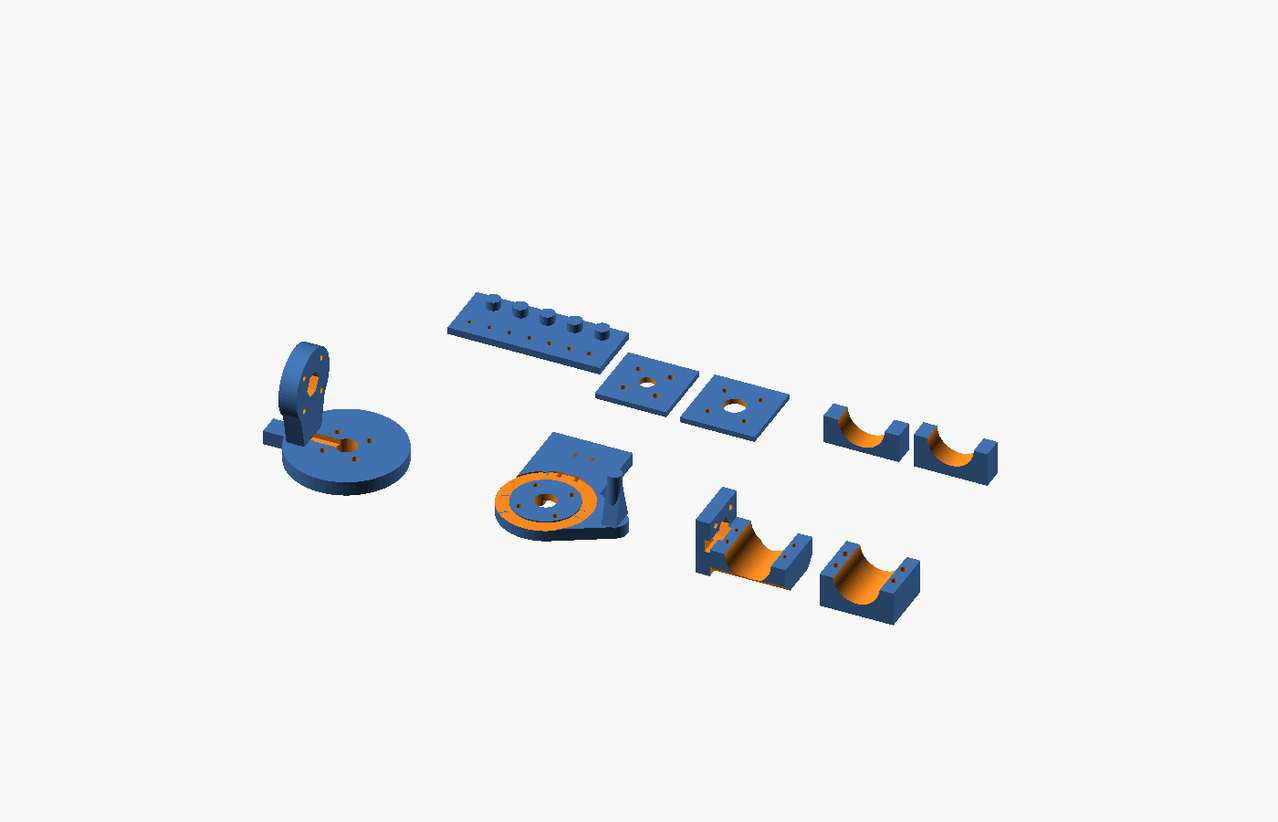
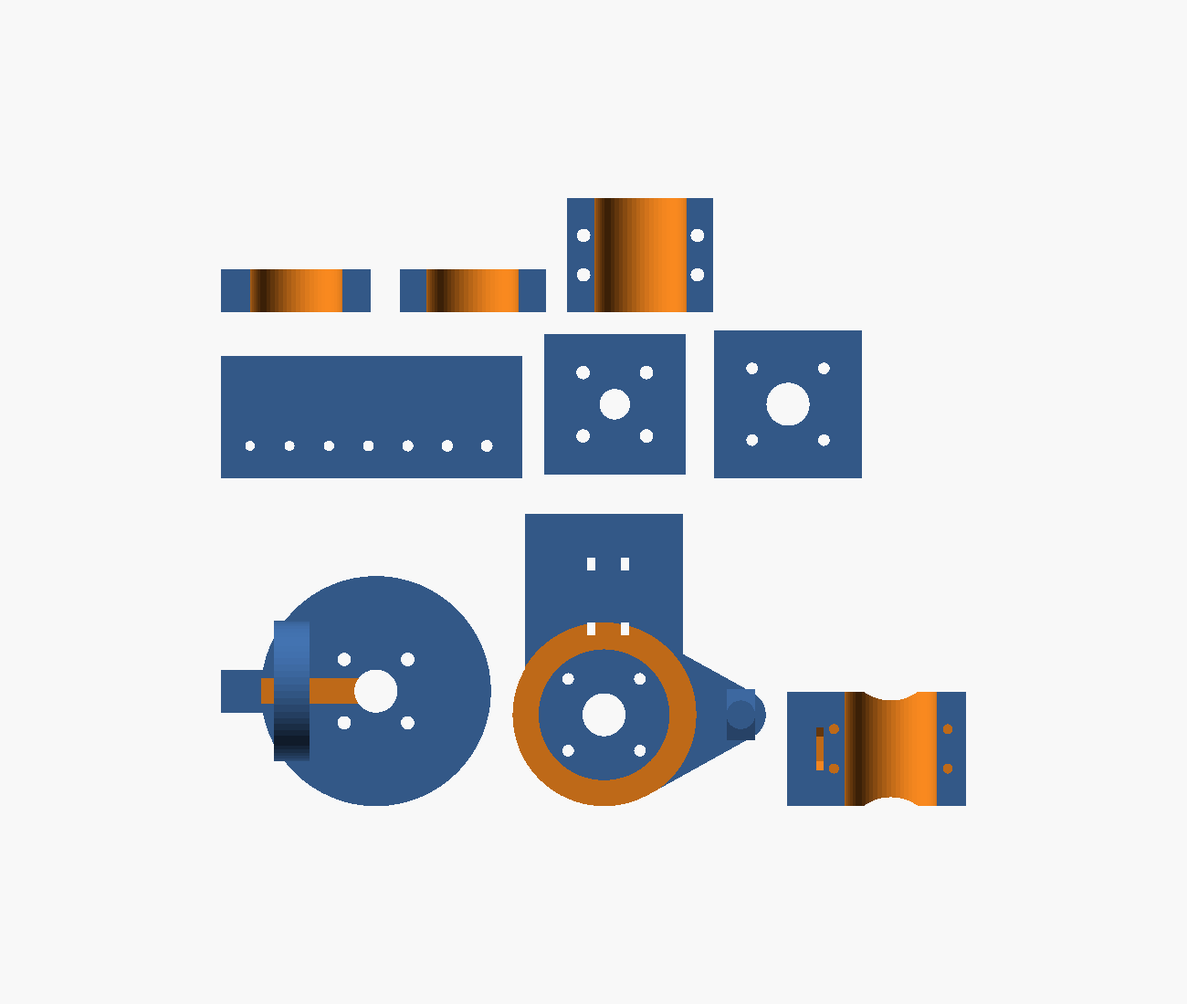
Docs: bring the frame chapter and the BoM up to v8
03b-print-the-frame.md is rewritten. It described six parts, an output boss,
M4 rear bolts on D43 and a D30 output circle - none of which exist. It now
describes four parts against the motor as measured out of the vendor STEP,
and says which numbers are unverified rather than implying all of them are
known. The bearing-load rating is called out as unpublished, because the
whole case for the cantilever rests on it not mattering at 0.0146 N.m.

Also documents the two things that bite people rather than burying them: the
2.5 mm tapped depth that fixes every M3 at x 10, and the stale-copies failure
where OpenSCAD collapses unknown names to undef, drops the geometry they
positioned, writes a valid STL and exits 0.

BoM row 11 in 03-build-the-gimbal.md no longer says "683 or 608 bearings".
The brief expected this row to be split so the 608 got its own line; that is
not what happened, because v8 has no bearing at all. The row now reads four
printed parts and no bearings, and says why, so anyone who already bought one
knows. bom-checklist.md keeps the 608 line struck through for the same reason.

The all-parts plate was 352 x 186 mm, which does not fit a 256 mm bed. Repacked
from each part's measured bounding box to 207.5 x 169.7 mm - the whole set,
including all three coupons, now prints in ONE job instead of two.

Verified: python -m mkdocs build --strict is clean, and tests/e2e is 9 passed.

Changed region(s): [[0.1846, 0.1867, 0.8308, 0.8089]]

diff --git a/docs/03b-print-the-frame.md b/docs/03b-print-the-frame.md
@@ -1,151 +1,174 @@
 ---
 title: 3b · Print the Frame
-description: "The gimbal's printed frame: six parts that print flat with no supports, every joint a bolt you can see, every fit derived from three numbers you measure off your own printer, and three cheap test pieces that find out before anything expensive prints."
+description: "The gimbal's printed frame: four parts that print flat with no supports, no bearings at all, every fit derived from three numbers you measure off your own printer, and a boolean test suite that proves each hole actually exists before you print anything."
 ---
 
-# Doc 3b · Print the Frame — Six Parts, Three Test Pieces, No Guesswork
+# Doc 3b · Print the Frame — Four Parts, Three Test Pieces, No Guesswork
 
 **Engineered Lighting prototype series · July 2026**
-The frame chapter [Doc 3](03-build-the-gimbal.md) stage 7 points at. Context, fixed: the motors are **RMD-L-5005** (Ø49 × ~24 mm, 92 g, mounting holes on *both* faces), the spotlight payload is the **DLH-3UP-EH aluminum LED housing** (Ø0.99" finned barrel, 1.26" overall, flush front face — nothing protrudes — and a hollow 1/2"-14 NPT rear stub the wires come out of), the printer is a **Bambu Lab X1C**, and the material is **PETG Basic** (PETG-CF for the yoke if it's on hand). Iteration is the plan, not a failure mode.
 
-!!! agent-prompt "🤖 Give this to your agent"
+The frame chapter [Doc 3](03-build-the-gimbal.md) stage 7 points at. Context, fixed: the motors are **RMD-L-5005** (Ø49 × 23.9 mm, 92 g), the spotlight payload is the **DLH-3UP-EH aluminium LED housing** (Ø0.99″ barrel, 1.26″ overall, flush front, hollow ½″-14 NPT rear stub the wires come out of), the printer is a **Bambu Lab X1C**, and the material is **PETG Basic**.
 
-    ```text
-    You're my bench agent for the Engineered Lighting gimbal frame
-    (chapter: engineering.engineered.lighting/03b-print-the-frame/). The
-    RMD-L-5005 motors and my calipers are on the bench, a Bambu Lab X1C is
-    on the network, and cad/frame_params.scad, cad/frame.scad and
-    cad/assembly.scad from this chapter are in my repo. Start by proposing
-    a plan and wait for my approval before executing anything. The first
-    part to print is tol_coupon, which measures my printer, not the design
-    — I will report which test hole my M3 drops through, which post the
-    608 turns freely on, and which ring it presses into, and you set
-    hole_comp, hole_comp_h and shaft_comp in frame_params.scad from that.
-    Then fit_coupon and bore_gauge against the real motor and the real
-    housing. Here are my caliper measurements: [paste the MEASURE-ME list
-    with your numbers]. Every edit goes in frame_params.scad — frame.scad
-    is geometry only. Re-render with the openscad CLI after each round.
-    Done when: all three tolerance constants came off a part I printed,
-    every MEASURE-ME value is replaced by a measured one, and the coupon
-    seats flush on both faces of the real motor. Report back: the
-    parameter diff after each round and the exact commands you ran.
-    ```
+This is **frame v8**, and it is a ground-up rebuild. Two things drove it.
 
-    *[How to run this prompt →](00b-ai-native-workflow.md)*
+## What changed, and why it matters
 
-*Printing stalled — bad first layers, fit that won't converge, no printer time? A hand-drilled aluminum bar or plywood yoke made from a 1:1 printed drawing is a legitimate v0; the geometry is a few brackets, not art.*
+**The motor is now read, not guessed.** Earlier revisions were built on an invented output flange — six holes on a Ø30 circle, an M4 rear mount on Ø43, a 4 mm output boss. None of those exist. The vendor's own STEP file is now in the repo at [`ref/RMD-L-5005-S.STEP`](https://github.com/hooterjackson/engineered-lighting-site/blob/main/ref/RMD-L-5005-S.STEP), parsed by [`ref/step_dump.py`](https://github.com/hooterjackson/engineered-lighting-site/blob/main/ref/step_dump.py), and written up in [`ref/RMD-L-5005-S.md`](https://github.com/hooterjackson/engineered-lighting-site/blob/main/ref/RMD-L-5005-S.md). What it says:
 
-## The six parts
-
-| Part | What it is |
+| | |
 |---|---|
-| `base_plate` | The only part that touches the world. The pan motor's **rear cover** bolts up into it, heads counterbored flush so the plate still sits flat under a shelf; a tongue reaches aft for the C-clamp; a buttressed post hangs 29 mm down into the yoke's swing plane as the pan hard stop. |
-| `yoke` | Bridge and both arms, **one piece**. Prints standing on its bridge with the arms pointing up — zero supports, and there is no joint to align because there is no joint. |
-| `cradle` | The head's saddle. Bolts to the tilt motor's output boss, carries the trunnion, holds the lower half of the housing bore. |
-| `cradle_cap` | The other half of the clamp. Four screws pinch the housing between the two halves. |
-| `trunnion` | The printed axle stub. There is no steel axle in this design. |
-| `bearing_carrier` | Holds the 608 on the idle side and, on purpose, has oversize screw holes so it can *find* the axis instead of fighting it. |
+| Output face | **Flat.** A Ø47 annulus, then a 1 mm 45° chamfer out to Ø49. **There is no boss** — stand-proud is 0.000 mm |
+| Output bolts | 4 × M3 on **Ø25**, tapped only **2.500 mm deep**, breaking through into the rotor cavity |
+| Stationary housing | begins **3.000 mm** back from the output face |
+| Rear mount | 4 × M2.5 on a **20 × 20 mm square** (Ø28.284 at 45°), 10.7 mm deep |
+| Through bore | **Ø8.1** ("S" variant) |
+| Anything protruding past Ø49 | **Nothing.** Max radius anywhere is exactly R24.5. The connectors are recesses cut *into* the casting |
+
+That 2.5 mm thread depth is the single most constraining number in the design. Every M3 into an output flange is **M3 × 10**, derived from it. The previous revision's assembly drawing called for M3 × 13 and M3 × 14 — both bottom out 2.5–3.5 mm before the head seats, so the joint never clamps and the screw tip ends up inside the motor.
+
+**The idle side of the tilt axis is gone.** No trunnion, no bearing carrier, no 608, six fewer screws, one fewer yoke arm. The head cantilevers off the tilt motor's own output.
+
+That deletes 62 g from a 177 g machine to carry **0.505 N and 0.0146 N·m** — about 3.5% of the motor's peak torque, with 0.58 N of prying on the output bolts against an M3 proof load near 2000 N. It also removes an *over-constrained* twin-bearing axis: two bearings on one axis need the printed parts to be coaxial with the motor's own bearing, which printed parts cannot guarantee, and which the old design papered over with a build-time "leave three screws loose, swing the head, then tighten" ritual. A misaligned second bearing loads the motor's bearing sideways — it can make worse the thing it is supposed to protect.
+
+!!! warning "One number here is unverified, and it is the important one"
+
+    **The RMD-L manual publishes no bearing load ratings at all.** There is no radial or moment figure for the output. The case for the cantilever is an argument from load magnitude and from the journal diameter — the STEP shows the rotor running in a Ø46.6 bore, and moment capacity scales with that — **not** from a datasheet. The load numbers are echoed on every render so that if the head ever grows, the change is visible instead of silent. If a rating ever surfaces, check it against 0.505 N and 0.0146 N·m.
+
+## The four parts
+
+| Part | What it is | Mass |
+|---|---|---|
+| `base_plate` | The only part that touches the world. The pan motor's rear bolts up into it, heads counterbored flush; a tongue reaches aft for the C-clamp; a buttressed post hangs down as the pan hard stop | 33.4 g |
+| `yoke` | Bridge disc and **one** arm, one piece. Prints standing on its bridge with the arm pointing up — zero supports, and no joint to align because there is no joint | 47.0 g |
+| `cradle` | The head's saddle. Bolts flat to the tilt motor's output face and holds the lower half of the housing bore | 23.2 g |
+| `cradle_cap` | The other half of the clamp. Four screws pinch the housing between the halves | 21.0 g |
+| | **printed machine** | **124.6 g** |
+
+Masses are measured off the exported STLs at PETG density by [`tools/meshcheck.py`](https://github.com/hooterjackson/engineered-lighting-site/blob/main/tools/meshcheck.py), which computes volume and centre of mass twice — once from a hand-rolled divergence-theorem sum, once from `trimesh` — and refuses to report a centre of mass without a stated coordinate frame. v7 was 177.1 g across six parts.
 
 Plus three test pieces that exist to be wrong cheaply, in the order you print them:
 
-**`tol_coupon`** measures *your printer*. FDM gets holes and shafts wrong in opposite directions — a hole comes out undersize, a post comes out oversize — and every fit in this project is derived from three constants that describe by how much. The coupon prints four candidate values for each: find which hole your M3 drops through, which post your 608 slides onto and turns freely on, and which ring it presses into. Type those three numbers into `frame_params.scad` and every part in the set resizes itself. It is 45 g and you print it once, ever.
+**`tol_coupon`** (14.9 g) measures *your printer*. FDM gets holes and shafts wrong in opposite directions — a hole comes out undersize, a post oversize — and every fit here derives from three constants that say by how much. Find which test hole your M3 drops through, which drilled-sideways hole it drops through, and which post measures nominal. Type three numbers into `frame_params.scad` and the whole set resizes itself.
 
-**`fit_coupon`** then checks the *motor*: a 3 mm disc carrying both bolt circles, the centre bore, and scribe rings at the boss and body diameters. **`bore_gauge`** checks the *housing*: a 14 mm slice of the real clamp — put the real barrel in it and find out whether Ø25.75 actually slides.
+**`fit_coupon`** (11.4 g) checks the *motor*: **two separate tiles**, one per bolt circle. They are separate on purpose — drawn concentrically, the Ø25 and Ø28.284 circles overlap into merged slots, and an M3 and an M2.5 both drop through the same hole, so the coupon proves neither circle.
+
+**`bore_gauge`** (14.2 g) checks the *housing*: a 12 mm slice of the real clamp, both halves lying flat on the bed, the cap half crown-down so its bore prints as a valley exactly as the real cap does.
 
 ## The rules the design follows
 
-**Every joint is a bolt you can see.** No tabs, no slots, no square nuts buried in pockets, nothing friction-fit. Printed-to-motor joints bolt into the motor's own threaded holes; printed-to-printed joints are machine screws self-tapping into printed pilot holes, with heat-set M3 inserts as the upgrade if anything ever works loose.
+**Every joint is a bolt you can see.** No tabs, no captive nuts, nothing friction-fit. Printed-to-motor joints use the motor's own threads; printed-to-printed self-taps into printed pilot holes.
 
-**The motors are bolted by their rear covers.** Both RMD faces carry mounting holes, and the rear one is a flat plate, so the mating surface is unambiguous. The tilt motor's body therefore lives *inside* the yoke with its connector hanging in free air, and both motors are bolted through a plate from the outside, where a driver can reach.
+**Every fit is derived, never typed.** Three measured constants and the fit functions built on them. Horizontal (bridged) holes get their own class, because a sideways hole prints with a sagging roof and comes out worse than a vertical one.
 
-**Nothing is sized in absolute millimetres if a fit depends on it.** `m3_clear`, the 608's bore, the trunnion's stub, the recess that lands on the motor boss — all of them come out of fit functions driven by the three numbers `tol_coupon` measures. This is not decoration: the previous revision drew the trunnion stub at 7.85 mm to enter an 8.00 mm bearing, and because external cylinders print *over* size it would have come out at about 8.0 and never gone in.
+**The part lands flat on a flat face.** There is no boss to register on, so the four M3 locate it. A plate laid on the output face sits on the Ø47 annulus and has **3.0 mm of axial room at full Ø49** before it touches the stator — which is what would clamp the motor solid.
 
-**Where a printed part lands on a rotating boss, it lands on the boss and nothing else.** The locating recess is 1 mm deep against a boss that stands about 4 mm proud. That margin is deliberate: a part that bottomed out on the *stator* face would clamp the motor solid.
+**Nothing bridges.** The hard stop is a post and a lug that *collide*, not a post in an arc groove: the old groove was 1565 mm² of flat roof with 45 mm unsupported runs printed over a 0.6 mm clearance. There is no groove now, so the whole failure mode is deleted rather than mitigated. The clamp bore is two valleys. Horizontal round holes are hexagons with a vertex up, so the roof is a 60° peak.
 
-**Nothing that has to be round prints as a bridge.** The bearing pocket is a first-layer-accurate hole in a flat-printed carrier. The clamp bore is two valleys, one in the saddle and one in the cap, each printed concave-up. Lightening pockets are hexagons with a vertex up, so their roofs are a 60° peak rather than a 32 mm bridge. Every part is oriented inside the file, so `part="yoke"` gives you a slice-ready STL.
+!!! note "A trick that only works in one direction"
 
-**Only three bolts hold the head to the tilt motor, and that's the point.** A bolt driven along the tilt axis needs a straight run for the driver, and the head's own body blocks any hole below the split line. So the design uses the three output-flange holes that sit *above* the split line, driven while the cap is off and the whole space above the bore is open air. Turn the output boss until one hole points straight up before you start. Three M3 on a 30 mm bolt circle carry the head's ~100 g and the motor's torque with an embarrassing margin.
+    The hexagon-vertex-up trick helps a hole whose **axis is horizontal**, where the hexagon's apex becomes the roof. A pocket cut straight down into a face has a flat roof whatever its plan shape. The cap's crown pocket was removed rather than hexagonalised, because the cap prints crown-down and any pocket there is a 32.7 mm bridge directly under the clamp.
 
-**Both axes are hollow, and the cable route is one open channel.** The LED wires leave the housing's rear stub, run forward along a channel cut into the inner face of the cradle's motor-side plate, pass through that plate on the axis and straight through the **tilt motor's hollow shaft**, out through the arm, up a trough in the arm's outer face, around the corner, along a trough under the bridge and up through the **pan motor's hollow shaft**. Every millimetre of it is open from the outside, so the bundle drops in *after* everything is bolted together — there is no tunnel to thread and no service loop to snag. Two zip-tie points, one on the arm and one on the base plate. Verify that through-bore on arrival — it's a MEASURE-ME; if it turns out solid, the tie points are already there for external routing.
+**Balance is drawn in, on the axis where it matters.** The tilt axis sits **1.75 mm above** the housing's axis, which puts the measured centre of mass of the whole head — saddle, cap and barrel — on it, leaving 6.9 × 10⁻⁶ N·m of standing torque. Solved from measured geometry by [`tools/solve_balance.py`](https://github.com/hooterjackson/engineered-lighting-site/blob/main/tools/solve_balance.py), in **model** coordinates.
+
+The **pan** axis is deliberately *not* balanced, and the reason is worth stating: the pan axis is vertical and gravity is parallel to it, so a centre-of-mass offset along the arm produces **no torque about the pan axis at all**. The motor holds any heading on zero current whatever that offset is. All it does is load the output bearing with 0.0128 N·m. Nulling it would cost about 7 mm of arm reach, a bigger bridge disc and ~12 g. Reported, not engineered away.
 
 ## The parametric scaffold
 
-The frame is three OpenSCAD files. [`cad/frame_params.scad`](cad/frame_params.scad) holds **every number, once** — motor interface, payload, thicknesses, the print-tolerance constants and the fit functions built on them, then one derived chain that sets the machine's size. [`cad/frame.scad`](cad/frame.scad) is nothing but geometry, and [`cad/assembly.scad`](cad/assembly.scad) draws the whole machine. Both of the latter `include` the parameters file, so the assembly view cannot disagree with the parts you print. Placeholders are marked **MEASURE-ME**, and every one of them is checked by a coupon.
+Four OpenSCAD files. [`cad/frame_params.scad`](cad/frame_params.scad) holds **every number, once**, and every number carries a provenance tag — `[STEP]`, `[MANUAL]`, `[DRAWING]`, `[STD]`, `[CHOICE]`, `[MEASURE]`, `[UNVERIFIED]` — so an invented dimension is visible in the source instead of in a failed build. [`cad/frame.scad`](cad/frame.scad) is nothing but geometry. [`cad/assembly.scad`](cad/assembly.scad) draws the whole machine. [`cad/checks.scad`](cad/checks.scad) is the test suite.
 
 ```scad
-/* [Motor interface — MEASURE-ME] */
-out_boss_d   = 36;    // MEASURE-ME  rotating output boss OD
-out_boss_h   = 4;     // MEASURE-ME  how far the boss stands proud
-out_bcd      = 30;    // MEASURE-ME  output-flange bolt circle
-rear_bcd     = 43;    // MEASURE-ME  REAR cover bolt circle — this is the mount
-shaft_bore_d = 8.1;   // MEASURE-ME  hollow through-bore (8.1 "S" / 12.7 "L")
+/* [Motor interface — all [STEP], read out of the vendor's own solid model] */
+motor_d          = 49;    // body OD. Also the max radius ANYWHERE: R24.5
+motor_len        = 23.9;
+out_flat_od      = 47;    // the flat annulus you land on
+stator_x         = 3.0;   // ** the stationary housing starts here **
+out_bcd          = 25;    // 4 x M3
+out_thread_depth = 2.5;   // ** and they break into the rotor cavity **
+out_thread_use   = 2.3;   // what we allow ourselves, so there is air under the tip
+out_boss_h       = 0;     // there is no boss. 0.000 mm proud.
+rear_bcd         = rear_sq * sqrt(2);   // 28.284 — a 20x20 square, at 45 deg
 
-/* [Print tolerances — MEASURE these with tol_coupon] */
-hole_comp   = 0.25;  // vertical holes come out this much UNDERSIZE
-hole_comp_h = 0.40;  // horizontal holes come out worse — the roof sags
-shaft_comp  = 0.15;  // external cylinders come out this much OVERSIZE
-
-function free_h(nom)  = nom + 0.5 + hole_comp;   // bolt drops through
-function tap_h(nom)   = nom - 0.45 + hole_comp;  // self-taps into PETG
-function slip_s(nom)  = nom - 0.15 - shaft_comp; // shaft that must TURN in a bore
-
-/* [Payload — DLH-3UP-EH, off LEDdynamics' drawing] */
-payload_od    = 25.15; // Ø0.99" over the fin crests — the clamped diameter
-payload_clear = 0.6;   // slide fit: Ø25.75 ≈ 1.014", slides by hand
-boss_recess   = 1;     // locating recess — KEEP WELL UNDER out_boss_h
+// screw lengths that CANNOT bottom out in the motor, derived not chosen
+function out_screw_len(through) = through + out_thread_use;
 ```
 
-Render any part, or the whole plate, from the CLI:
+Render or export any part from the CLI. `orient` picks the frame:
 
 ```bash
 openscad -o tol_coupon.stl -D 'part="tol_coupon"' cad/frame.scad   # print this first
-openscad -o cradle.stl     -D 'part="cradle"'     cad/frame.scad
+openscad -o yoke.stl       -D 'part="yoke"'       cad/frame.scad   # print orientation
+openscad -o yoke_model.stl -D 'part="yoke"' -D 'orient="model"' cad/frame.scad
 openscad -o plate.stl      -D 'part="all"'        cad/frame.scad
 ```
 
+Use `orient="model"` for anything you intend to *measure*. A centre of mass read off a print-orientation export is a rigid transform away from every other number in the project, and reading one as the other is a mistake that has already shipped here once.
+
+## The test suite
+
+`checks.scad` and [`tools/run_checks.py`](https://github.com/hooterjackson/engineered-lighting-site/blob/main/tools/run_checks.py) run **34 checks** of three kinds. Run them after any change:
+
+```bash
+python tools/run_checks.py
+```
+
+**`hole:` — a hole that must exist.** The probe is the *ideal* hole, intersected with the *finished* part. Empty means the material really was removed. This inversion is the only thing that sees a cut which missed: such a cut removes nothing, changes no mass, and renders as a clean solid. The previous revision's cradle had **no output-flange bolt holes at all** — the cut was a centred cylinder 2.865 mm short of the plate — and nothing but a boolean could see it.
+
+**`clash:` — two things that must not touch**, positioned exactly as assembled: head against both motors and against the yoke at tilt 0 and ±90°, the payload through its sweep, nothing entering the stator zone, the hard-stop post against the bridge and the arm at every heading.
+
+**`bed:` — the exported STL's minimum Z**, measured rather than asserted. The old `p_cradle` put its part 1.740 mm *below* the bed, where a slicer silently clips away the keel's entire first-layer footprint, and `bore_gauge` floated its second half 16 mm in the air.
+
+Both boolean kinds are proven to fail when they should — reintroduce the old centred-cut bug and `hole:yoke_arm_bolts` reports 158.270 mm³; pull `drop` to 12 and `clash:cradle_v_yoke_0` reports 525.1 mm³. A suite that cannot fail is worse than no suite, because it gets believed.
+
 ## X1C print settings, per part
 
-| Part | Material | Walls / infill / layer | Orientation | Roughly |
+| Part | Material | Walls / infill / layer | Orientation | Mass |
 |---|---|---|---|---|
-| `tol_coupon` | PETG Basic | 3 / 15% / 0.2 mm | flat, as emitted | ~1½ h · 45 g |
-| `fit_coupon` | PETG Basic | 4 / 30% / 0.2 mm | flat, as emitted | 20 min · 9 g |
-| `bore_gauge` | PETG Basic | 4 / 40% / 0.2 mm | as emitted | 35 min · 18 g |
-| `base_plate` | PETG Basic | 4 / 40% gyroid / 0.2 mm | post UP; installs post DOWN | 2 h · 38 g |
-| `yoke` | PETG-CF if on hand | 5 / 40% gyroid / 0.2 mm | arms UP, bridge on the bed | 6 h · 96 g |
-| `cradle` | PETG Basic | 4 / 40% gyroid / 0.2 mm | as emitted, bore a valley | 1½ h · 21 g |
-| `cradle_cap` | PETG Basic | 4 / 40% / 0.2 mm | inverted, bore a valley | 45 min · 11 g |
-| `trunnion` | PETG Basic | 5 / 60% / 0.2 mm | stub UP | 30 min · 6 g |
-| `bearing_carrier` | PETG Basic | 4 / 40% / 0.2 mm | pocket UP | 30 min · 9 g |
+| `tol_coupon` | PETG Basic | 3 / 15% / 0.2 mm | flat, as emitted | 14.9 g |
+| `fit_coupon` | PETG Basic | 4 / 30% / 0.2 mm | flat, as emitted | 11.4 g |
+| `bore_gauge` | PETG Basic | 4 / 40% / 0.2 mm | flat, both halves | 14.2 g |
+| `base_plate` | PETG Basic | 4 / 40% gyroid / 0.2 mm | flipped, post UP | 33.4 g |
+| `yoke` | PETG-CF if on hand | 5 / 40% gyroid / 0.2 mm | bridge on the bed, arm UP | 47.0 g |
+| `cradle` | PETG Basic | 4 / 40% gyroid / 0.2 mm | as emitted, bore a valley | 23.2 g |
+| `cradle_cap` | PETG Basic | 4 / 40% / 0.2 mm | crown down, bore a valley | 21.0 g |
 
-The masses are measured off the exported STLs at PETG's density and a 0.92 packing factor, not guessed: **181 g for the machine**, 72 g for the three test pieces, and the yoke is more than half the machine on its own. Times are slicer estimates at these settings and will move with your profile. `part="all"` lays every part flat, but that layout is 206 × 265 mm — a picture of the set, not a bed. Split it in two on a 256 mm X1C. There is not a single support in the set and no overhang steeper than 60°.
+Masses are measured off the STLs, not estimated. Print times are not listed because they depend on your profile more than on the geometry — the yoke is the long one at 59.6 mm tall.
+
+`part="all"` lays the whole set flat in **207.5 × 169.7 mm**, which fits a 256 mm X1C bed in **one job**. Those offsets are computed from each part's measured bounding box, not eyeballed. There is not a single support in the set and no overhang past 60°.
 
 ## How it all goes together
 
-Open [`cad/assembly.scad`](cad/assembly.scad) in OpenSCAD and press F5. It `use`s `frame.scad` — importing the part modules without running that file's own render block — and `include`s the same `frame_params.scad`, so the assembly can never drift from the printed geometry. It draws **every part and every one of the 27 bolts** — both motors with their real bolt patterns, the 608, the LED housing with its flush front, the wire runs, the C-clamp and the shelf. A `view` dropdown flips exploded ↔ assembled, `pan` and `tilt` pose it, `show_cap` unchecks to look inside the clamp, and `clip` takes a section through the whole thing.
+Open [`cad/assembly.scad`](cad/assembly.scad) and press F5. `view` flips exploded ↔ assembled, `pan` and `tilt` pose it, `show_cap` unchecks to look inside the clamp, and `clip` sections it.
+
+!!! danger "If the version banner prints `undef`, stop"
+
+    `assembly.scad` echoes `cad_version` on load. If that says `undef`, your `frame_params.scad` is not the file these were written against — and OpenSCAD does not fail loudly. It prints `WARNING: Ignoring unknown variable`, collapses the missing names to `undef`, silently **drops the geometry those names positioned**, writes a valid-looking STL and exits 0. A slicer will happily accept it.
+
+    That is the whole explanation for "only some of the parts render". If you have downloaded these files more than once, check what is actually in the folder you opened: a browser saves a second copy as `frame_params_1.scad`, which nothing includes, leaving the *stale* `frame_params.scad` as the one being read. Work in the repo clone, not in a downloads folder.
 
 ## Build order
 
-Each step ends with something you can check by hand, and each one leaves the next step's fasteners reachable — that ordering is a property of the geometry, not a hope.
+Each step leaves the next step's fasteners reachable — that ordering is a property of the geometry, not a hope.
 
-1. **`tol_coupon` first, before anything else.** Set `hole_comp`, `hole_comp_h` and `shaft_comp` from what it tells you. *Done when you have written three numbers into `frame_params.scad` that came off a part you printed, not out of this document.*
-2. **Then the other two coupons.** *Done when the output-flange bolts thread the inner circle, the rear-cover bolts thread the outer circle, the disc seats flush on the boss, and the real housing slides into the bore gauge and locks when you nip its screws.* Fix the parameters here; a 20-minute reprint beats a 6-hour one.
-3. **Yoke onto the pan motor, while the yoke is still empty.** Stand it on its arm tips, drop the motor into the bridge's locating recess boss-down, drive six M3 up from underneath. Turn the motor first so its **side connector faces the base plate's cable trough** — one of the other three positions puts the connector straight into the hard-stop post. *Done when the motor sits square and the yoke doesn't rock.* Do it now — once the head is in, those six bolts are behind it.
-4. **Base plate down onto the pan motor's rear**, four M4 through the counterbores. *Done when the plate sits flat on a table with the yoke hanging free and swinging to the hard stop in both directions.*
-5. **Cradle onto the tilt motor**, on the bench. Turn the output boss until one hole points straight up, then drive the three bolts above the split line. *Done when the cradle is rigid on the motor and the motor still turns freely by hand.*
-6. **Trunnion onto the cradle's right plate**, three screws, heads outside. *Done when the stub runs true — spin it against a fixed pencil mark and watch for wobble.*
-7. **Head up between the arms**, four M4 through the **left arm from the outside** into the tilt motor's rear holes. *Done when the head hangs on one side and swings.*
-8. **608 into the carrier, carrier over the stub, three screws — left loose.** Swing the head through its whole travel, *then* tighten. *Done when the head is supported on both sides and still falls under its own weight from any angle. If it binds, back those three screws off and let the carrier move.*
-9. **Wires** through both hollow shafts, then the C-clamp onto the shelf.
-10. **Housing in, cap on, balance.** Lay the housing into the saddle, slide it along the bore until the powered-off head stays where you leave it, *then* pull the four cap screws down. There is no trim bolt and no counterweight, because the balance is drawn in: the tilt axis sits 1.45 mm **above** the housing's axis, which is where the measured centre of mass of the whole head — saddle, cap, trunnion and barrel — actually lands. Then back to [Doc 3 stage 7](03-build-the-gimbal.md#stage-7-print-the-frame-balance-the-head).
-
-The bore is 32 mm long against a 22.6 mm finned barrel, so there are **9.4 mm of slide** — but it is now trim, not the balance mechanism. Solving for where the tilt axis has to sit puts the head's centre of mass on it to within 0.2 mm across any plausible housing weight, which is a gravity torque under 0.1 mN·m. Balance *is* the silence mechanism: centre of mass on the tilt axis means near-zero hold current, which means a cool, quiet motor. The slide is there for when your barrel is not the one on the drawing.
+1. **`tol_coupon` first, before anything else.** Set `hole_comp`, `hole_comp_h` and `shaft_comp` from what it tells you. *Done when three numbers in `frame_params.scad` came off a part you printed.*
+2. **Then the other two coupons.** *Done when the output bolts thread one tile, the rear bolts thread the other, and the real housing slides into the bore gauge and locks when you nip its screws.* Fix parameters here; a 20-minute reprint beats a 6-hour one.
+3. **Cradle onto the tilt motor**, on the bench, motor loose. Turn the output until two holes sit above the split line, then **two M3 × 10** through the plate. *Done when the cradle is rigid and the motor still turns freely by hand.* Do it now, while a driver reaches straight in.
+4. **Tilt motor onto the yoke arm, from outside the arm** — four **M2.5 × 16** through the arm into the rear square. The head is already on and hangs inboard; nothing is trapped. *Done when the head swings freely and falls under its own weight from any angle.*
+5. **Yoke onto the pan motor** — four **M3 × 10** up through the bridge.
+6. **Base plate down onto the pan motor's rear** — four **M2.5 × 16** through the counterbores. **The connector clocking is decided here**, not earlier: the rear square offers exactly four positions, so turn the motor *now* so its connector faces the cable trough. (The old chapter put this instruction on a step where turning the motor cannot change it, which costs up to three teardowns.) *Done when the plate sits flat and the yoke swings to the stop both ways.*
+7. **Wires**, then **housing in, cap on, balance.** Lay the housing into the saddle, slide it until the powered-off head stays where you leave it, *then* pull the four cap screws down.
 
 ## Two things worth knowing before you print
 
-**The pan hard stop is mechanical because the encoder is single-turn and the whole cable bundle passes through the pan axis.** A post on the base plate rides in an arc groove in the bridge, giving about **307°** of travel with the dead wedge pointed aft. It sits at a 31 mm radius, and because it is the one feature on this machine that gets *hit* — a 30 mm blade printed standing up, loaded across its layers, which is the weakest direction a printed part has — it carries a tapered buttress down 80% of its length that turns it into a T-section loaded along them. Even so, set a conservative current limit before you first test travel, and if it ever shears, an M6 bolt drops into the same position as the metal upgrade.
+**The clamp must never bottom out, and it doesn't.** The barrel is Ø25.15 **± 0.38** — the drawing's own two-place-decimal tolerance, a 0.76 mm spread on the one dimension the clamp depends on. The bore is cut for the *largest* barrel allowed, and the cap's bore sits 0.79 mm above the split line, against a worst case of 0.48 mm of travel needed to reach the *smallest*. So the screws set the grip and any barrel inside tolerance is actually held. Get this backwards and the ears land plastic-on-plastic and clamp air.
 
-**Tilt is limited in firmware, not by a stop.** The frame clears a full rotation — the head's swing radius is 24.5 mm against a 32 mm drop, and that was checked by intersecting the posed head with the yoke as solids at 0 and ±90° rather than by eye — so what limits tilt is the cable and the servo's own position limits. A mechanical stop that close to the tilt axis could not survive stall torque, and pretending otherwise would be worse than saying so.
+There are **9.4 mm of slide** for trim, and it is trim — the balance is drawn in. But note the sleeve length behind it (0.89″ = 22.6 mm) is **unverified**: the drawing carries 0.89, 0.80 and 0.70 and states what none of them measure. Measure yours before relying on the grip length.
+
+**The pan hard stop is mechanical because the whole cable bundle passes through the pan axis.** A post on the base plate and a lug on the bridge's rim collide, giving **329.8°** of travel with the dead wedge aft. Worst case is the motor driving into it at peak torque: 0.42 N·m at a 38.1 mm radius is about 11 N, which puts under 1 MPa in the post's root — roughly 25× margin even across layer lines, and it carries a tapered buttress on top of that because a hard stop is the one feature that gets *hit*.
+
+**Tilt is limited in firmware, not by a stop.** The head's swing radius is 24.3 mm against a 32 mm drop — checked by intersecting the posed head with the yoke as solids at 0 and ±90°, not by eye.
 
 ## BoM delta
 
-Two additions to [Doc 3's BoM](03-build-the-gimbal.md#bill-of-materials-buy-this-350405-total): **digital calipers ($10–20)**, because the whole chapter runs on measurements, and a **small hardware handful (~$10)**: eight M4 socket cap screws in 16 and 20 mm, about twenty M3 in 14–20 mm, and M2.5 screws instead of M4 if the rear circle turns out to be tapped M2.5. No square nuts, no captive hardware, nothing exotic, and no counterweight — the tilt axis is drawn 1.45 mm above the housing's axis, which is exactly where the head's centre of mass sits, so there is nothing to trim. Filament and the 608 are already in the list.
+Against [Doc 3's BoM](03-build-the-gimbal.md#bill-of-materials-buy-this-350405-total): **digital calipers ($10–20)**, because the chapter runs on measurements, and a **small hardware handful (~$10)** — about eight M3 × 10 socket cap screws, eight M2.5 × 16, and four M3 × 25 for the clamp.
+
+**No bearings.** Row 11 of Doc 3 used to list "683 or 608 bearings"; there was never a 683 in the design, and as of v8 there is no bearing at all. No square nuts, no captive hardware, no counterweight.

diff --git a/docs/bom-checklist.md b/docs/bom-checklist.md
@@ -39,7 +39,7 @@ Every purchase in the series, in one list. Check items off as you order — stat
 <tr><td><input type="checkbox" class="bom-box" id="d3-screws" data-lo="10" data-hi="10" aria-label='M2.5 + M3 screw assortment'></td><td><label for="d3-screws">M2.5 + M3 screw assortment</label></td><td>1 box</td><td>$10</td><td>Amazon</td><td>Confirm sizes against the motor drawing</td></tr>
 <tr><td><input type="checkbox" class="bom-box" id="d3-usb-can" data-lo="20" data-hi="25" aria-label='USB-to-CAN adapter ("CANable" or clone)'></td><td><label for="d3-usb-can">USB-to-CAN adapter ("CANable" or clone) <span class="bom-optional">optional</span></label></td><td>1</td><td>$20–25</td><td>Amazon</td><td>Lets your laptop eavesdrop on the bus — turns "nothing happens" into evidence</td></tr>
 <tr><td><input type="checkbox" class="bom-box" id="d3-printing" data-lo="20" data-hi="20" aria-label='PETG filament + FDM printer access'></td><td><label for="d3-printing">PETG filament + FDM printer access</label></td><td>~250 g</td><td>$20</td><td>Amazon / local makerspace</td><td>Six printed parts plus three test coupons, ~180 g of frame — a makerspace or print service works. See <a href="../03b-print-the-frame/">Doc 3b</a></td></tr>
-<tr><td><input type="checkbox" class="bom-box" id="d3-bearing" data-lo="8" data-hi="10" aria-label='608ZZ bearing, 8 × 22 × 7 mm ("skateboard bearing")'></td><td><label for="d3-bearing">608ZZ bearing, 8 × 22 × 7 mm (a skateboard bearing)</label></td><td>1 (buy the 10-pack)</td><td>$8–10</td><td>Amazon, any skate shop</td><td>The <strong>only</strong> bearing in the machine. Carries the idle end of the tilt axis: it presses into the printed <code>bearing_carrier</code> and the printed trunnion stub turns inside it. 608 <strong>ZZ</strong> (metal shields) or 2RS (rubber) both work; ABEC rating is irrelevant here</td></tr>
+<tr><td>—</td><td><label><s>608ZZ bearing, 8 × 22 × 7 mm</s> — <strong>no longer required</strong></label></td><td>0</td><td>$0</td><td>—</td><td>Frame v8 deleted the idle side of the tilt axis: no trunnion, no bearing carrier, no bearing. The head cantilevers off the tilt motor's own output, which carries 0.505 N and 0.0146 N·m — about 3.5% of the motor's peak torque. Kept here, struck through, so anyone who bought one against an earlier revision knows why it is not in the build</td></tr>
 <tr><td><input type="checkbox" class="bom-box" id="d3-clamp" data-lo="10" data-hi="10" aria-label='C-clamp or small bench vise'></td><td><label for="d3-clamp">C-clamp or small bench vise</label></td><td>1</td><td>$10</td><td>hardware store</td><td>Clamps the bare motor before its first move</td></tr>
 <tr><td><input type="checkbox" class="bom-box" id="d3-payload" aria-label='Payload stand-in: small flashlight or ~100 g weight'></td><td><label for="d3-payload">Payload stand-in: small flashlight or ~100 g weight</label></td><td>1</td><td>—</td><td>—</td><td>Real LED head comes from <a href="../04-full-fixture-bench/">Doc 4</a></td></tr>
 <tr><td><input type="checkbox" class="bom-box" id="d3-calipers" data-lo="10" data-hi="20" aria-label='Digital calipers'></td><td><label for="d3-calipers">Digital calipers</label></td><td>1</td><td>$10–20</td><td>Amazon</td><td>The frame chapter (<a href="../03b-print-the-frame/">Doc 3b</a>) runs on measurements</td></tr>

diff --git a/docs/03-build-the-gimbal.md b/docs/03-build-the-gimbal.md
@@ -24,7 +24,7 @@ For a first-time gimbal builder with limited electronics experience. Ten stages;
 | 8 | USB-C data cable | 1 | — | you own one | Charge-only cables are a classic trap |
 | 9 | M2.5 + M3 screw assortment | 1 box | $10 | Amazon | Confirm sizes against the motor drawing ([myactuator.com](https://www.myactuator.com) downloads) |
 | 10 | USB-to-CAN adapter ("CANable" or clone) — *optional but recommended* | 1 | $20–25 | Amazon | Lets your laptop eavesdrop on the bus; turns "nothing happens" into readable evidence |
-| 11 | PETG filament + access to any FDM 3D printer & slicer; 683 or 608 bearings | — | $20 | Amazon / local makerspace | For stage 7's three frame parts. No printer at home? A library, makerspace, or online print service works — the parts are small |
+| 11 | PETG filament + access to any FDM 3D printer & slicer | — | $20 | Amazon / local makerspace | For the frame: **four printed parts** (base plate, yoke, cradle, cradle cap) plus three small test coupons — see [Doc 3b](03b-print-the-frame.md). **No bearings.** This row used to read "683 or 608 bearings": there was never a 683 in the design, and as of frame v8 there is no bearing at all — the tilt axis cantilevers off the motor's own output. No printer at home? A library, makerspace, or online print service works — the parts are small |
 | 12 | C-clamp or small bench vise | 1 | $10 | hardware store | Stage 4 clamps the bare motor before its first move; stages 7–8 clamp the assembled rig |
 | 13 | Payload stand-in: small flashlight or ~100 g weight | 1 | — | — | Real LED head comes from [Doc 4](04-full-fixture-bench.md) |
 | 14 | Digital calipers | 1 | $10–20 | Amazon | The frame chapter ([Doc 3b](03b-print-the-frame.md)) runs on measurements — every MEASURE-ME parameter in the scaffold comes from these |
